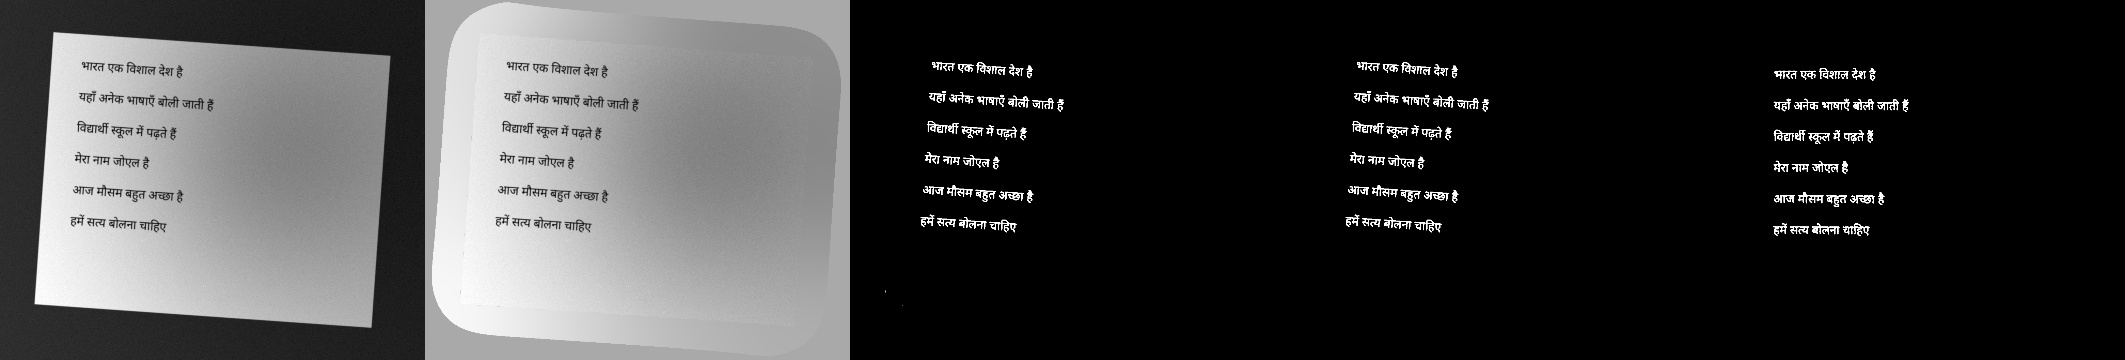
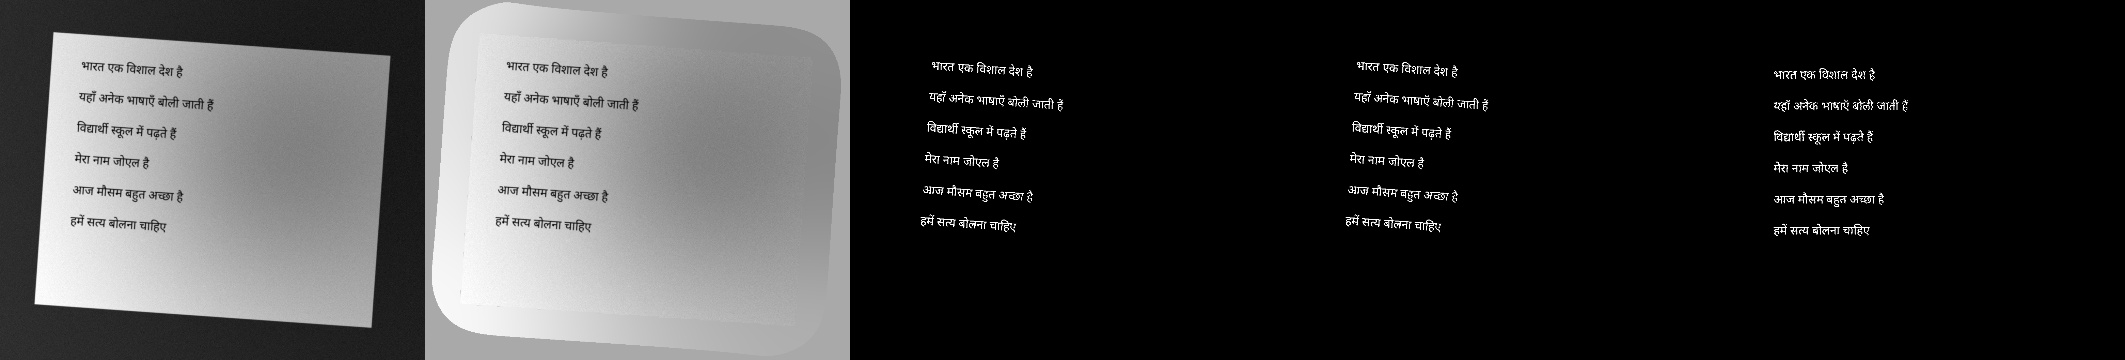
Milestone 3: unit segmentation for Hindi, Telugu, Kannada

diff --git a/indic-text-translator/src/segment.py b/indic-text-translator/src/segment.py
@@ -1,0 +1,202 @@
+"""Unit segmentation of a text line (milestone 3).
+
+A "unit" is a connected blob of ink, optionally merged with marks that sit
+directly above/below it (x-overlap grouping, like the reference's merging of
+Thai vowels above/below a consonant).
+
+Script-specific step: Devanagari letters in a word are joined by a horizontal
+headline (shirorekha). We detect it with the row projection and delete that
+band, which splits the word into letters.
+"""
+from __future__ import annotations
+
+from dataclasses import dataclass, field
+
+import cv2
+import numpy as np
+
+
+@dataclass
+class Unit:
+    x0: int
+    y0: int
+    x1: int          # exclusive
+    y1: int          # exclusive
+    mask: np.ndarray = field(repr=False)   # uint8 crop, ink = 255
+    word: int = 0    # word index inside the line
+
+    @property
+    def w(self): return self.x1 - self.x0
+    @property
+    def h(self): return self.y1 - self.y0
+
+
+# --------------------------------------------------------------- headline
+# Measured on the test pages: Devanagari lines score >= 0.93, Telugu/Kannada <= 0.85.
+HEADLINE_RATIO = 0.89
+
+def headline_band(line: np.ndarray) -> tuple[int, int] | None:
+    """Rows [r0, r1) of the shirorekha if the line has one, else None.
+
+    The headline is a row where a large fraction of all ink columns are on.
+    """
+    ink = line > 0
+    cols = int(ink.any(axis=0).sum())
+    if cols == 0:
+        return None
+    proj = ink.sum(axis=1).astype(float)
+    peak = proj.max()
+    if peak < HEADLINE_RATIO * cols:  # no long horizontal bar -> not Devanagari
+        return None
+    r = int(np.argmax(proj))
+    lo = hi = r
+    while lo > 0 and proj[lo - 1] >= 0.5 * peak:
+        lo -= 1
+    while hi < len(proj) - 1 and proj[hi + 1] >= 0.5 * peak:
+        hi += 1
+    return lo, hi + 1
+
+
+def is_devanagari_line(line: np.ndarray) -> bool:
+    return headline_band(line) is not None
+
+
+def remove_headline(line: np.ndarray) -> tuple[np.ndarray, tuple[int, int] | None]:
+    band = headline_band(line)
+    out = line.copy()
+    if band is not None:
+        out[band[0]:band[1], :] = 0
+    return out, band
+
+
+# ------------------------------------------------------------------ units
+def _components(binary: np.ndarray, min_area: int = 6) -> list[Unit]:
+    n, lab, stats, _ = cv2.connectedComponentsWithStats((binary > 0).astype(np.uint8), connectivity=8)
+    units = []
+    for i in range(1, n):
+        x, y, w, h, a = stats[i]
+        if a < min_area:
+            continue
+        m = ((lab[y:y + h, x:x + w] == i) * 255).astype(np.uint8)
+        units.append(Unit(x, y, x + w, y + h, m))
+    units.sort(key=lambda u: (u.x0, u.y0))
+    return units
+
+
+def _xoverlap(a: Unit, b: Unit) -> float:
+    ov = min(a.x1, b.x1) - max(a.x0, b.x0)
+    return ov / max(1, min(a.w, b.w))
+
+
+def _merge(g: list[Unit]) -> Unit:
+    x0, y0 = min(v.x0 for v in g), min(v.y0 for v in g)
+    x1, y1 = max(v.x1 for v in g), max(v.y1 for v in g)
+    m = np.zeros((y1 - y0, x1 - x0), np.uint8)
+    for v in g:
+        m[v.y0 - y0:v.y1 - y0, v.x0 - x0:v.x1 - x0] |= v.mask
+    return Unit(x0, y0, x1, y1, m)
+
+
+def group_units(units: list[Unit], line_shape: tuple[int, int], thresh: float = 0.5,
+                small_h: float = 0.45, small_gap: float = 0.35) -> list[Unit]:
+    """Merge marks with the letter they belong to.
+
+    Pass 1: blobs that stack vertically (x-overlap > thresh of the narrower).
+    Pass 2: tiny marks (e.g. a Kannada/Telugu subscript or a dot that lost its
+    connection to the base after thresholding) join the nearest unit they overlap
+    in x, if they sit close above/below it.
+    """
+    groups: list[list[Unit]] = []
+    for u in units:
+        placed = False
+        for g in groups:
+            gx0, gx1 = min(v.x0 for v in g), max(v.x1 for v in g)
+            ov = min(u.x1, gx1) - max(u.x0, gx0)
+            if ov / max(1, min(u.w, gx1 - gx0)) > thresh:
+                g.append(u); placed = True; break
+        if not placed:
+            groups.append([u])
+    merged = sorted((_merge(g) for g in groups), key=lambda u: u.x0)
+    if len(merged) < 2:
+        return merged
+    body = float(np.percentile([u.h for u in merged], 75))
+    mw = float(np.median([u.w for u in merged]))
+    keep, marks = [], []
+    for u in merged:
+        (marks if (u.h < small_h * body and u.w < 0.6 * mw) else keep).append(u)
+    if not keep:
+        return merged
+    groups2 = [[u] for u in keep]
+    for m in marks:
+        best, best_ov = None, 0
+        for g in groups2:
+            b = g[0]
+            ov = min(m.x1, b.x1) - max(m.x0, b.x0)
+            vgap = max(m.y0 - b.y1, b.y0 - m.y1, 0)
+            if ov > best_ov and vgap < small_gap * body:
+                best, best_ov = g, ov
+        if best is not None:
+            best.append(m)
+        else:
+            groups2.append([m])          # isolated mark stays its own unit
+    out = sorted((_merge(g) for g in groups2), key=lambda u: u.x0)
+    return out
+
+
+def assign_words(units: list[Unit], gap_factor: float = 0.45) -> int:
+    """Set unit.word using gaps in x. A gap wider than gap_factor * body height
+    starts a new word. Returns the number of words."""
+    if not units:
+        return 0
+    body = float(np.median([u.h for u in units]))
+    w = 0
+    units[0].word = 0
+    for prev, cur in zip(units, units[1:]):
+        if cur.x0 - prev.x1 > gap_factor * body:
+            w += 1
+        cur.word = w
+    return w + 1
+
+
+def segment_line(line: np.ndarray, group: bool = True, devanagari: bool | None = None):
+    """Segment one binary text line (ink = 255).
+
+    `devanagari` forces/skips headline removal (decided per page by a vote in
+    segment_page); None means decide from this line alone.
+    Returns (units, script_hint, headline_band).
+    """
+    if devanagari is None:
+        devanagari = is_devanagari_line(line)
+    work, band = remove_headline(line) if devanagari else (line, None)
+    units = _components(work)
+    if group:
+        units = group_units(units, line.shape)
+    assign_words(units)
+    return units, ("devanagari" if devanagari else "dravidian"), band
+
+
+def page_is_devanagari(text_img: np.ndarray, lines: list[tuple[int, int]]) -> bool:
+    votes = []
+    for (y0, y1) in lines:
+        crop = text_img[y0:y1, :]
+        xs = np.where((crop > 0).any(axis=0))[0]
+        if xs.size:
+            votes.append(is_devanagari_line(crop[:, xs[0]:xs[-1] + 1]))
+    return bool(votes) and sum(votes) > len(votes) / 2
+
+
+def segment_page(text_img: np.ndarray, lines: list[tuple[int, int]], group: bool = True):
+    """Segment every line of a preprocessed page. Returns a list of dicts."""
+    deva = page_is_devanagari(text_img, lines)
+    out = []
+    for (y0, y1) in lines:
+        crop = text_img[y0:y1, :]
+        xs = np.where((crop > 0).any(axis=0))[0]
+        if xs.size == 0:
+            continue
+        x0, x1 = xs[0], xs[-1] + 1
+        crop = crop[:, x0:x1]
+        units, hint, band = segment_line(crop, group=group, devanagari=deva)
+        out.append({"y": (y0, y1), "x": (x0, x1), "units": units, "script": hint, "band": band,
+                    "line": crop})
+    return out

diff --git a/indic-text-translator/src/preprocess.py b/indic-text-translator/src/preprocess.py
@@ -66,7 +66,7 @@ def find_page(gray: np.ndarray) -> tuple[np.ndarray, bool, np.ndarray]:
 
 
 # ----------------------------------------------------------------- stage 2
-def binarize(gray: np.ndarray, window: int | None = None, k: float = 0.2,
+def binarize(gray: np.ndarray, window: int | None = None, k: float = 0.8,
              rank: int = 1, rank_size: int = 3) -> tuple[np.ndarray, np.ndarray, np.ndarray]:
     """Rank-filter + locally adaptive thresholding.
 
@@ -177,11 +177,25 @@ def _cum_bounds(profile: np.ndarray, lo: float = 0.10, hi: float = 0.90) -> tupl
     return a, b
 
 
-def find_text_box(binary: np.ndarray, pad: int = 6) -> tuple[int, int, int, int]:
-    """(x0, y0, x1, y1) of the text region, using cumulative projections."""
-    x0, x1 = _cum_bounds((binary > 0).sum(axis=0))
-    y0, y1 = _cum_bounds((binary > 0).sum(axis=1))
+def find_text_box(binary: np.ndarray, pad: int = 6, method: str = "extent") -> tuple[int, int, int, int]:
+    """(x0, y0, x1, y1) of the text region.
+
+    method="extent": first/last row and column that contain ink (the binary
+        image is already page-masked and denoised, so this is safe).
+    method="cumulative": the reference's 10%/90% cumulative-projection estimate.
+        It assumes justified text; on ragged-right text it clips the ends of
+        the longest lines (we saw this on Telugu/Kannada), so it is not the default.
+    """
     h, w = binary.shape
+    if method == "cumulative":
+        x0, x1 = _cum_bounds((binary > 0).sum(axis=0))
+        y0, y1 = _cum_bounds((binary > 0).sum(axis=1))
+    else:
+        xs = np.where((binary > 0).any(axis=0))[0]
+        ys = np.where((binary > 0).any(axis=1))[0]
+        if xs.size == 0:
+            return 0, 0, w, h
+        x0, x1, y0, y1 = xs[0], xs[-1] + 1, ys[0], ys[-1] + 1
     return max(0, x0 - pad), max(0, y0 - pad), min(w, x1 + pad), min(h, y1 + pad)
 
 
@@ -236,7 +250,11 @@ def preprocess(img: np.ndarray, is_camera: bool | None = None) -> dict:
     stages["page"] = page
     stages["page_found"] = found
 
-    filt, b1, b2 = binarize(page)
+    # Unsharp mask: camera blur otherwise makes neighbouring Telugu/Kannada letters
+    # touch after thresholding (tuned on the test pages: sigma 1.5, k = 0.8).
+    sharp = cv2.addWeighted(page, 2.0, cv2.GaussianBlur(page, (0, 0), 1.5), -1.0, 0)
+    stages["sharpened"] = sharp
+    filt, b1, b2 = binarize(sharp)
     stages["rank_filtered"] = filt
     binary = cv2.bitwise_and(cv2.bitwise_and(b1, b2), page_mask)  # nothing outside the paper
     stages["binary"] = binary

diff --git a/indic-text-translator/src/run_segment.py b/indic-text-translator/src/run_segment.py
@@ -1,0 +1,37 @@
+"""Segment every test page; compare camera vs clean unit counts per line."""
+import glob, os, sys
+import cv2, numpy as np
+sys.path.insert(0, os.path.dirname(os.path.dirname(os.path.abspath(__file__))))
+from src.preprocess import preprocess
+from src.segment import segment_page
+
+def run(path, group=True):
+    s = preprocess(cv2.imread(path))
+    return segment_page(s["text"], s["lines"], group=group)
+
+def draw(lines, path):
+    rows = []
+    for L in lines:
+        vis = cv2.cvtColor(L["line"], cv2.COLOR_GRAY2BGR)
+        if L["band"]:
+            cv2.rectangle(vis, (0, L["band"][0]), (vis.shape[1] - 1, L["band"][1]), (255, 160, 0), 1)
+        palette = [(0, 0, 255), (0, 200, 0), (255, 0, 0), (0, 160, 255)]
+        for u in L["units"]:
+            cv2.rectangle(vis, (u.x0, u.y0), (u.x1 - 1, u.y1 - 1), palette[u.word % 4], 1)
+        rows.append(cv2.copyMakeBorder(vis, 4, 4, 4, 4, cv2.BORDER_CONSTANT, value=(40, 40, 40)))
+    W = max(r.shape[1] for r in rows)
+    rows = [cv2.copyMakeBorder(r, 0, 0, 0, W - r.shape[1], cv2.BORDER_CONSTANT, value=(40, 40, 40)) for r in rows]
+    cv2.imwrite(path, cv2.vconcat(rows))
+
+def main():
+    os.makedirs("results/segment", exist_ok=True)
+    print(f"{'page':22s} {'hint':11s} {'units/line (clean)':34s} {'units/line (camera)':34s} match")
+    for base in ["devanagari_sans", "devanagari_serif", "telugu_sans", "telugu_serif", "kannada_sans", "kannada_serif"]:
+        c = run(f"data/{base}_clean.png"); k = run(f"data/{base}_camera.jpg")
+        cn = [len(L["units"]) for L in c]; kn = [len(L["units"]) for L in k]
+        hints = {L["script"] for L in c + k}
+        print(f"{base:22s} {','.join(sorted(hints)):11s} {str(cn):34s} {str(kn):34s} {'OK' if cn == kn else 'DIFF'}")
+        draw(c, f"results/segment/{base}_clean.png"); draw(k, f"results/segment/{base}_camera.png")
+
+if __name__ == "__main__":
+    main()

diff --git a/indic-text-translator/README.md b/indic-text-translator/README.md
@@ -11,7 +11,7 @@ deep-translator (translation), Streamlit (demo).
 ## Status
 - [x] M1  fonts + test data  (`python src/make_data.py`)
 - [x] M2  preprocessing pipeline (`python src/run_preprocess.py`)
-- [ ] M3  character/unit segmentation
+- [x] M3  unit segmentation (`python src/run_segment.py`)
 - [ ] M4  template database + XOR matcher
 - [ ] M5  SVD/PCA + SIFT matchers, accuracy table
 - [ ] M6  translation + Streamlit demo
